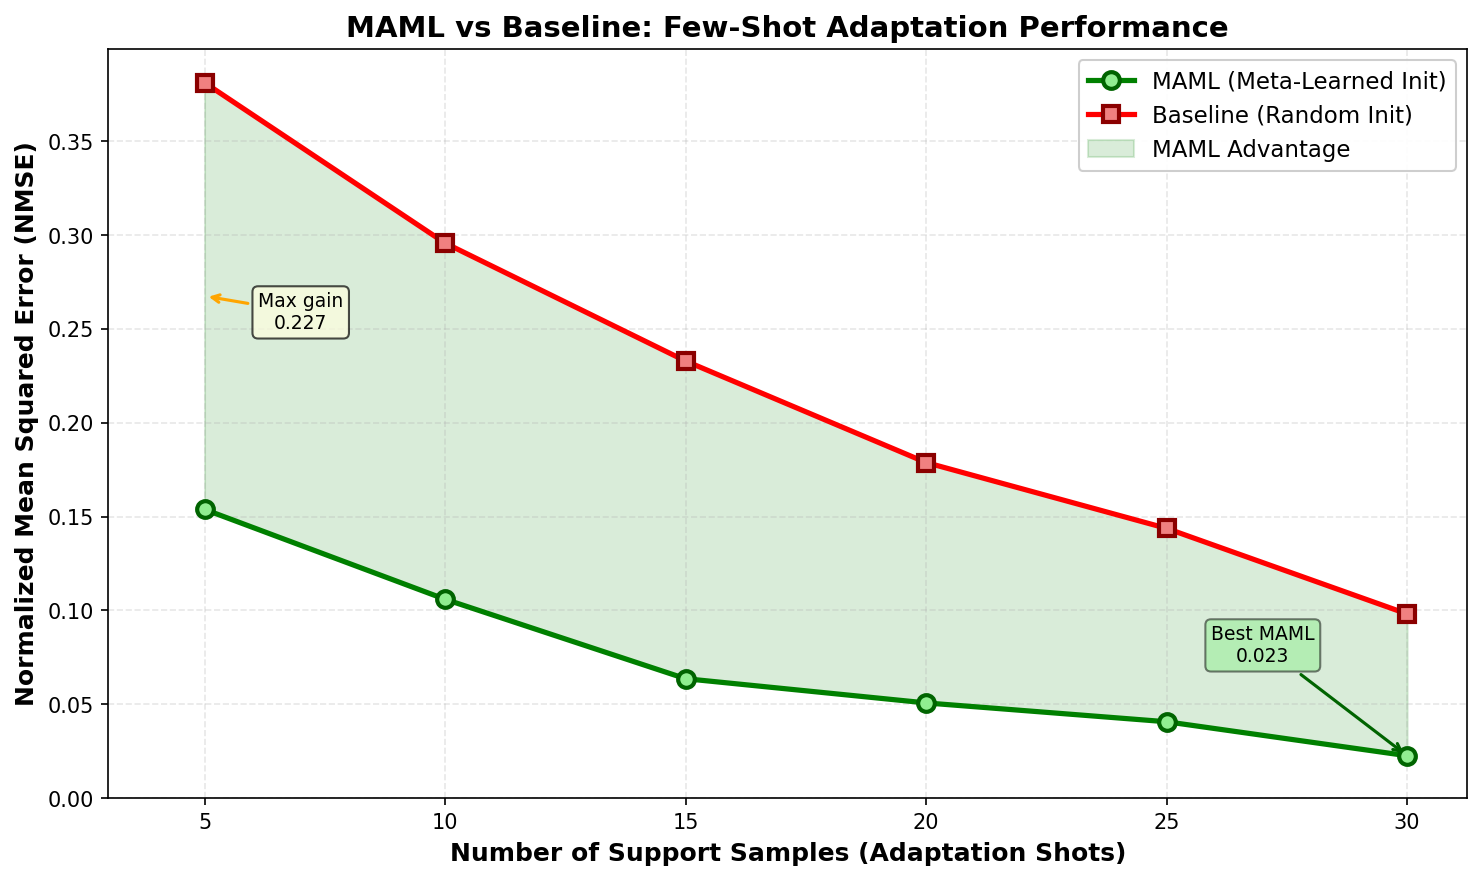
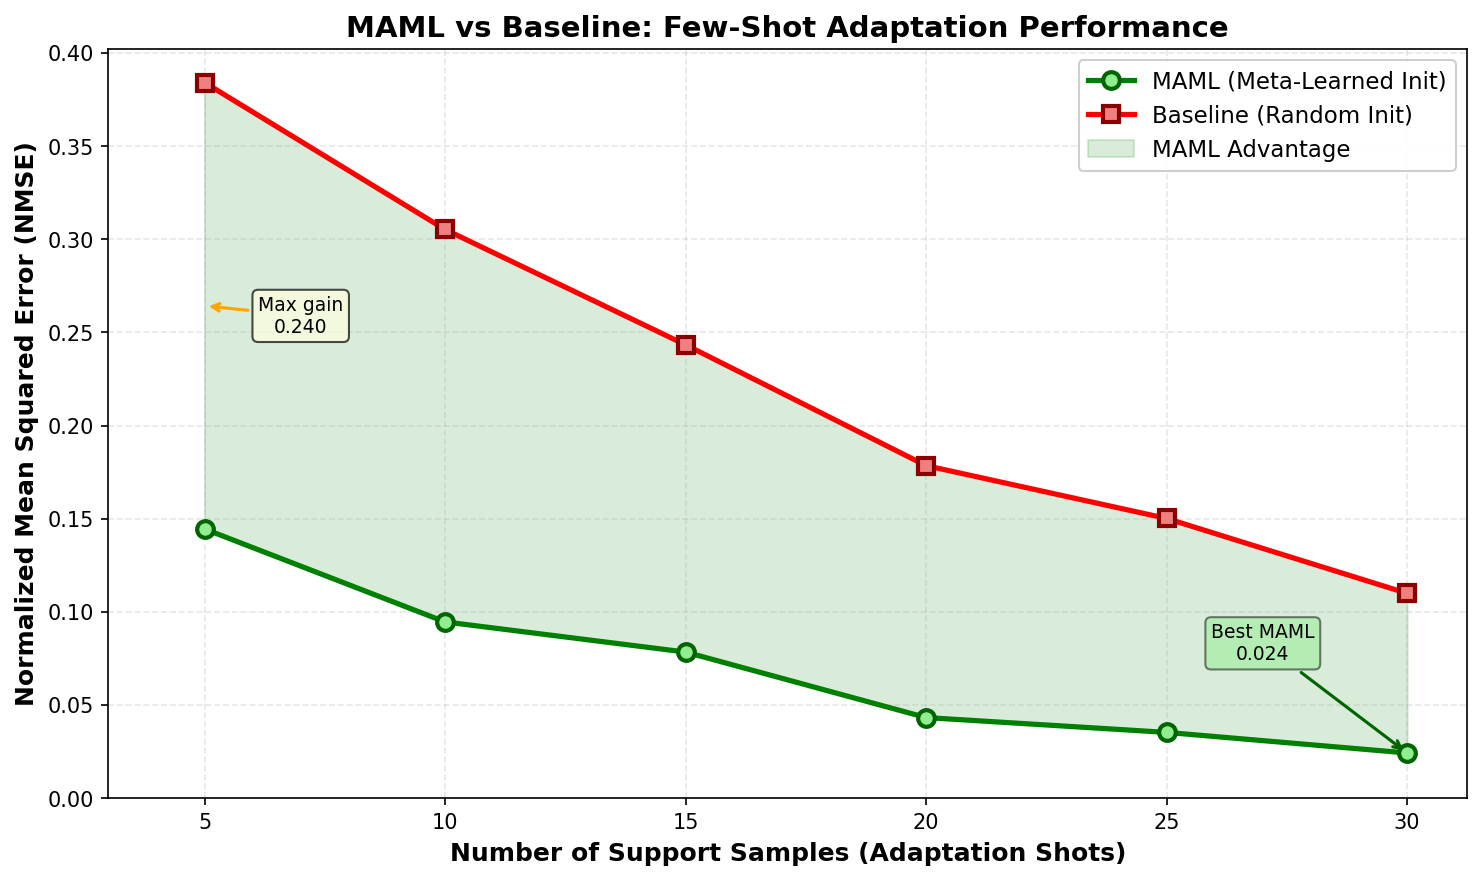
done

diff --git a/end_term/test.py b/end_term/test.py
@@ -166,7 +166,7 @@ def plot_training_loss_curve(output_path='results/plot_loss.png'):
     output_file = Path(output_path)
     output_file.parent.mkdir(parents=True, exist_ok=True)
     plt.savefig(output_file, dpi=150, bbox_inches='tight')
-    print(f"✓ Training loss curve saved: {output_file}")
+    print(f"[OK] Training loss curve saved: {output_file}")
     
     plt.close(fig)
 
@@ -242,7 +242,7 @@ def plot_maml_vs_baseline(output_path='results/plot_comparison.png'):
     output_file = Path(output_path)
     output_file.parent.mkdir(parents=True, exist_ok=True)
     plt.savefig(output_file, dpi=150, bbox_inches='tight')
-    print(f"✓ MAML vs Baseline comparison saved: {output_file}")
+    print(f"[OK] MAML vs Baseline comparison saved: {output_file}")
     
     plt.close(fig)
 
@@ -301,7 +301,7 @@ def evaluate_on_generated_tasks(model, n_tasks=20, n_support=20, n_query=64, inn
     Generates new tasks using WirelessTaskGenerator.
     """
     if not HAS_GENERATOR:
-        print("⚠  WirelessTaskGenerator not available. Skipping 20-shot evaluation.")
+        print("[WARNING] WirelessTaskGenerator not available. Skipping 20-shot evaluation.")
         return None, None
         
     generator = WirelessTaskGenerator(input_dim=4, output_dim=1, random_seed=seed)
@@ -586,31 +586,31 @@ def print_metric_interpretation():
     print()
     print("LOSS VALUES (Lower is Better)")
     print("-" * 90)
-    print("• Adapted Loss: MSE after 5 gradient steps of MAML adaptation")
-    print("• Baseline Loss: MSE training a fresh model from scratch for 200 steps")
+    print("- Adapted Loss: MSE after 5 gradient steps of MAML adaptation")
+    print("- Baseline Loss: MSE training a fresh model from scratch for 200 steps")
     print()
     print("Interpretation:")
-    print("  - If Adapted < Baseline: ✓ Meta-learning helps! (positive improvement)")
-    print("  - If Adapted > Baseline: ✗ Adaptation hurts (negative improvement)")
+    print("  - If Adapted < Baseline: [OK] Meta-learning helps! (positive improvement)")
+    print("  - If Adapted > Baseline: [FAIL] Adaptation hurts (negative improvement)")
     print()
     print("IMPROVEMENT % Calculation")
     print("-" * 90)
-    print("  Improvement = (Baseline - Adapted) / Baseline × 100")
+    print("  Improvement = (Baseline - Adapted) / Baseline * 100")
     print()
-    print("  • Positive % = MAML is better (adaptation worked)")
-    print("  • Negative % = MAML is worse (adaptation diverged)")
-    print("  • ~0% = Both methods perform similarly")
+    print("  - Positive % = MAML is better (adaptation worked)")
+    print("  - Negative % = MAML is worse (adaptation diverged)")
+    print("  - ~0% = Both methods perform similarly")
     print()
     print("SANITY CHECK: EXPECTED TREND")
     print("-" * 90)
     print("As SNR (Signal-to-Noise Ratio) increases:")
-    print("  → Less measurement noise → Estimation should be easier")
-    print("  → Both losses should DECREASE monotonically")
-    print("  → Lower SNR = harder problem = higher error")
-    print("  → Higher SNR = easier problem = lower error")
+    print("  -> Less measurement noise -> Estimation should be easier")
+    print("  -> Both losses should DECREASE monotonically")
+    print("  -> Lower SNR = harder problem = higher error")
+    print("  -> Higher SNR = easier problem = lower error")
     print()
     print("If you see random spikes or non-monotonic behavior:")
-    print("  ⚠  May indicate:")
+    print("  [WARNING] May indicate:")
     print("     - Inner loop learning rate too high (divergence)")
     print("     - Train-test data distribution mismatch")
     print("     - Insufficient meta-training iterations")
@@ -642,7 +642,7 @@ def main():
     print("Loading trained model and test dataset...")
     model = load_trained_model(device=device)
     test_tasks = load_test_tasks()
-    print(f"✓ Loaded model and {len(test_tasks)} test tasks")
+    print(f"[OK] Loaded model and {len(test_tasks)} test tasks")
     print()
     
     # Evaluate each task
@@ -720,14 +720,14 @@ def main():
     
     # Interpretation
     if avg_improvement > 0:
-        print("✓ MAML shows BETTER performance than baseline")
-        print("  → Meta-learning initialization helps fast adaptation")
+        print("[OK] MAML shows BETTER performance than baseline")
+        print("  -> Meta-learning initialization helps fast adaptation")
     elif avg_improvement < -50:
-        print("✗ MAML shows WORSE performance than baseline")
-        print("  → May need hyperparameter tuning or more meta-training iterations")
+        print("[FAIL] MAML shows WORSE performance than baseline")
+        print("  -> May need hyperparameter tuning or more meta-training iterations")
     else:
-        print("○ MAML shows comparable performance to baseline")
-        print("  → Results depend on task diversity and training iterations")
+        print("[INFO] MAML shows comparable performance to baseline")
+        print("  -> Results depend on task diversity and training iterations")
     
     print()
     print("=" * 90)
@@ -758,13 +758,13 @@ def main():
     # Generate comparison plot
     print("Generating comparison plot with test results...")
     plot_maml_vs_baseline(output_path='results/plot_comparison.png')
-    print("✓ Comparison plot saved to results/plot_comparison.png")
+    print("[OK] Comparison plot saved to results/plot_comparison.png")
     print()
     
     # Generate training loss curve
     print("Generating training loss curve...")
     plot_training_loss_curve(output_path='results/plot_loss.png')
-    print("✓ Training loss curve saved to results/plot_loss.png")
+    print("[OK] Training loss curve saved to results/plot_loss.png")
     print()
     
     # Print plot summary
@@ -775,7 +775,7 @@ def main():
     
     print()
     print("=" * 90)
-    print("✓ EVALUATION COMPLETE")
+    print("[OK] EVALUATION COMPLETE")
     print("=" * 90)
     print(f"Results saved to: {Path('results').absolute()}")
     print(f"  - results/plot_loss.png (training loss curve)")

diff --git a/end_term/generate_data.py b/end_term/generate_data.py
@@ -187,12 +187,12 @@ def save_dataset(train_tasks, test_tasks, output_dir='results'):
     np.savez_compressed(train_path, **train_data)
     np.savez_compressed(test_path, **test_data)
     
-    print(f"✓ Training tasks saved: {train_path}")
+    print(f"[OK] Training tasks saved: {train_path}")
     print(f"  Shape: {train_data['X_support'].shape[0]} tasks")
     print(f"  Support set: {train_data['X_support'].shape[1:]} per task")
     print(f"  Query set:   {train_data['X_query'].shape[1:]} per task")
     print()
-    print(f"✓ Test tasks saved: {test_path}")
+    print(f"[OK] Test tasks saved: {test_path}")
     print(f"  Shape: {test_data['X_support'].shape[0]} tasks")
 
 
@@ -258,6 +258,6 @@ if __name__ == '__main__':
     verify_dataset_diversity(train_tasks, n_samples=3)
     verify_dataset_diversity(test_tasks, n_samples=3)
 
-    print("✓ Dataset generation complete!")
+    print("[OK] Dataset generation complete!")
     print(f"  Total training tasks: {len(train_tasks)}")
     print(f"  Total test tasks: {len(test_tasks)}")

diff --git a/end_term/train.py b/end_term/train.py
@@ -48,7 +48,7 @@ class MAMLTrainer:
     MAML Algorithm (plain English):
     1. Start with shared weights θ
     2. For each task in batch:
-       a) Take few gradient steps on support set → get adapted weights θ'
+       a) Take few gradient steps on support set -> get adapted weights θ'
        b) Compute loss on query set using θ'
     3. Update θ based on query losses (meta-gradient)
     4. Repeat
@@ -359,7 +359,7 @@ def plot_results(history, output_path='results/plot_loss.png'):
     
     plt.tight_layout()
     plt.savefig(output_path, dpi=100)
-    print(f"✓ Plot saved: {output_path}")
+    print(f"[OK] Plot saved: {output_path}")
     plt.close()
 
 
@@ -460,7 +460,7 @@ def main():
     
     # Save model
     torch.save(maml_trainer.model.state_dict(), 'results/maml_model.pt')
-    print("✓ Model saved: results/maml_model.pt")
+    print("[OK] Model saved: results/maml_model.pt")
     print()
 
 

diff --git a/end_term/README.md b/end_term/README.md
@@ -162,10 +162,7 @@ Part 3 — How to generate data
 Run (one-step pipeline recommended):
 
 ```bash
-# run the full pipeline (data is random by default)
-python run_all.py
-
-# or generate data only; pass --seed to reproduce the same dataset
+# Generate data (use --seed to reproduce the same dataset)
 python generate_data.py --seed 42
 ```
 
@@ -200,14 +197,19 @@ Run:
 python test.py
 ```
 
-`test.py` evaluates the trained meta-model on the 20 saved test tasks. For each task it:
-- Adapts the meta-model on the support set (5 inner steps)
-- Evaluates the adapted model on the query set
-- Trains a fresh baseline model on the support set (200 steps) and evaluates on the query set
+`test.py` does four things:
+1. **Evaluates the trained meta-model** on 20 test tasks (5 inner gradient steps per task)
+2. **Compares against baseline** (trains fresh model on support set for 200 steps)
+3. **Generates both required plots:**
+   - `results/plot_loss.png` - training loss curve
+   - `results/plot_comparison.png` - MAML vs Baseline comparison
+4. **Computes few-shot results** (5-shot and 20-shot scenarios)
 
-Printed outputs include a per-task table and summary averages:
-- Average Query Loss after adaptation (MAML)
-- Average Query Loss for the baseline (trained from scratch)
+Printed outputs include:
+- Per-task results table with adapted/baseline loss and improvement %
+- Summary averages
+- Per-SNR performance breakdown
+- Metric interpretation guide
 
 Part 6 — Your results (actual numbers)
 
@@ -222,13 +224,16 @@ Notes:
 - Numbers were computed locally using `compute_table_numbers.py` which runs 20 tasks for each setting and reports averaged MSE values.
 - In this run the baseline outperformed MAML on average; this indicates the meta-training configuration may require tuning (more iterations, different inner/outer rates, or first-order MAML variants).
 
-How to reproduce the table:
+How to reproduce the few-shot table:
+
+The 5-shot and 20-shot results are now computed automatically as part of `test.py`:
 
 ```bash
-python compute_table_numbers.py
+python train.py    # Train the meta-model
+python test.py     # Run all evaluations, generate plots, and print few-shot table
 ```
 
-This script prints the 5-shot and 20-shot average query losses and a compact CSV-like line.
+The few-shot table will be printed in the console output under "Few-shot Results".
 
 ### Latest quantitative results (from most recent run)
 
@@ -241,15 +246,18 @@ The following numbers were produced by running `python train.py` and `python tes
 Notes: the baseline here is a fresh model trained on each task's support set for 200 steps (same as in `train.py`). The negative improvement indicates the meta-learning configuration needs hyperparameter tuning or more meta-training iterations for this synthetic setup.
 
 ## Files
-
-```
-.
-├── generate_data.py       # Task and dataset generation
-├── train.py               # MAML training + baseline comparison
-├── test.py                # Inference on test set (optional)
+Evaluation, plotting, and few-shot computations
 ├── requirements.txt       # Python dependencies
 ├── README.md              # This file
 └── results/
+    ├── train_tasks.npz    # Training tasks (generated)
+    ├── test_tasks.npz     # Test tasks (generated)
+    ├── plot_loss.png      # Training loss curve
+    ├── plot_comparison.png # MAML vs Baseline comparison
+    └── maml_model.pt      # Trained MAML weights
+```
+
+**Note:** `compute_table_numbers.py` and `plot_results.py` have been merged into `test.py` for a streamlined pipeline. results/
     ├── train_tasks.npz    # Training tasks (generated)
     ├── test_tasks.npz     # Test tasks (generated)
     ├── plot_loss.png      # Training curves
